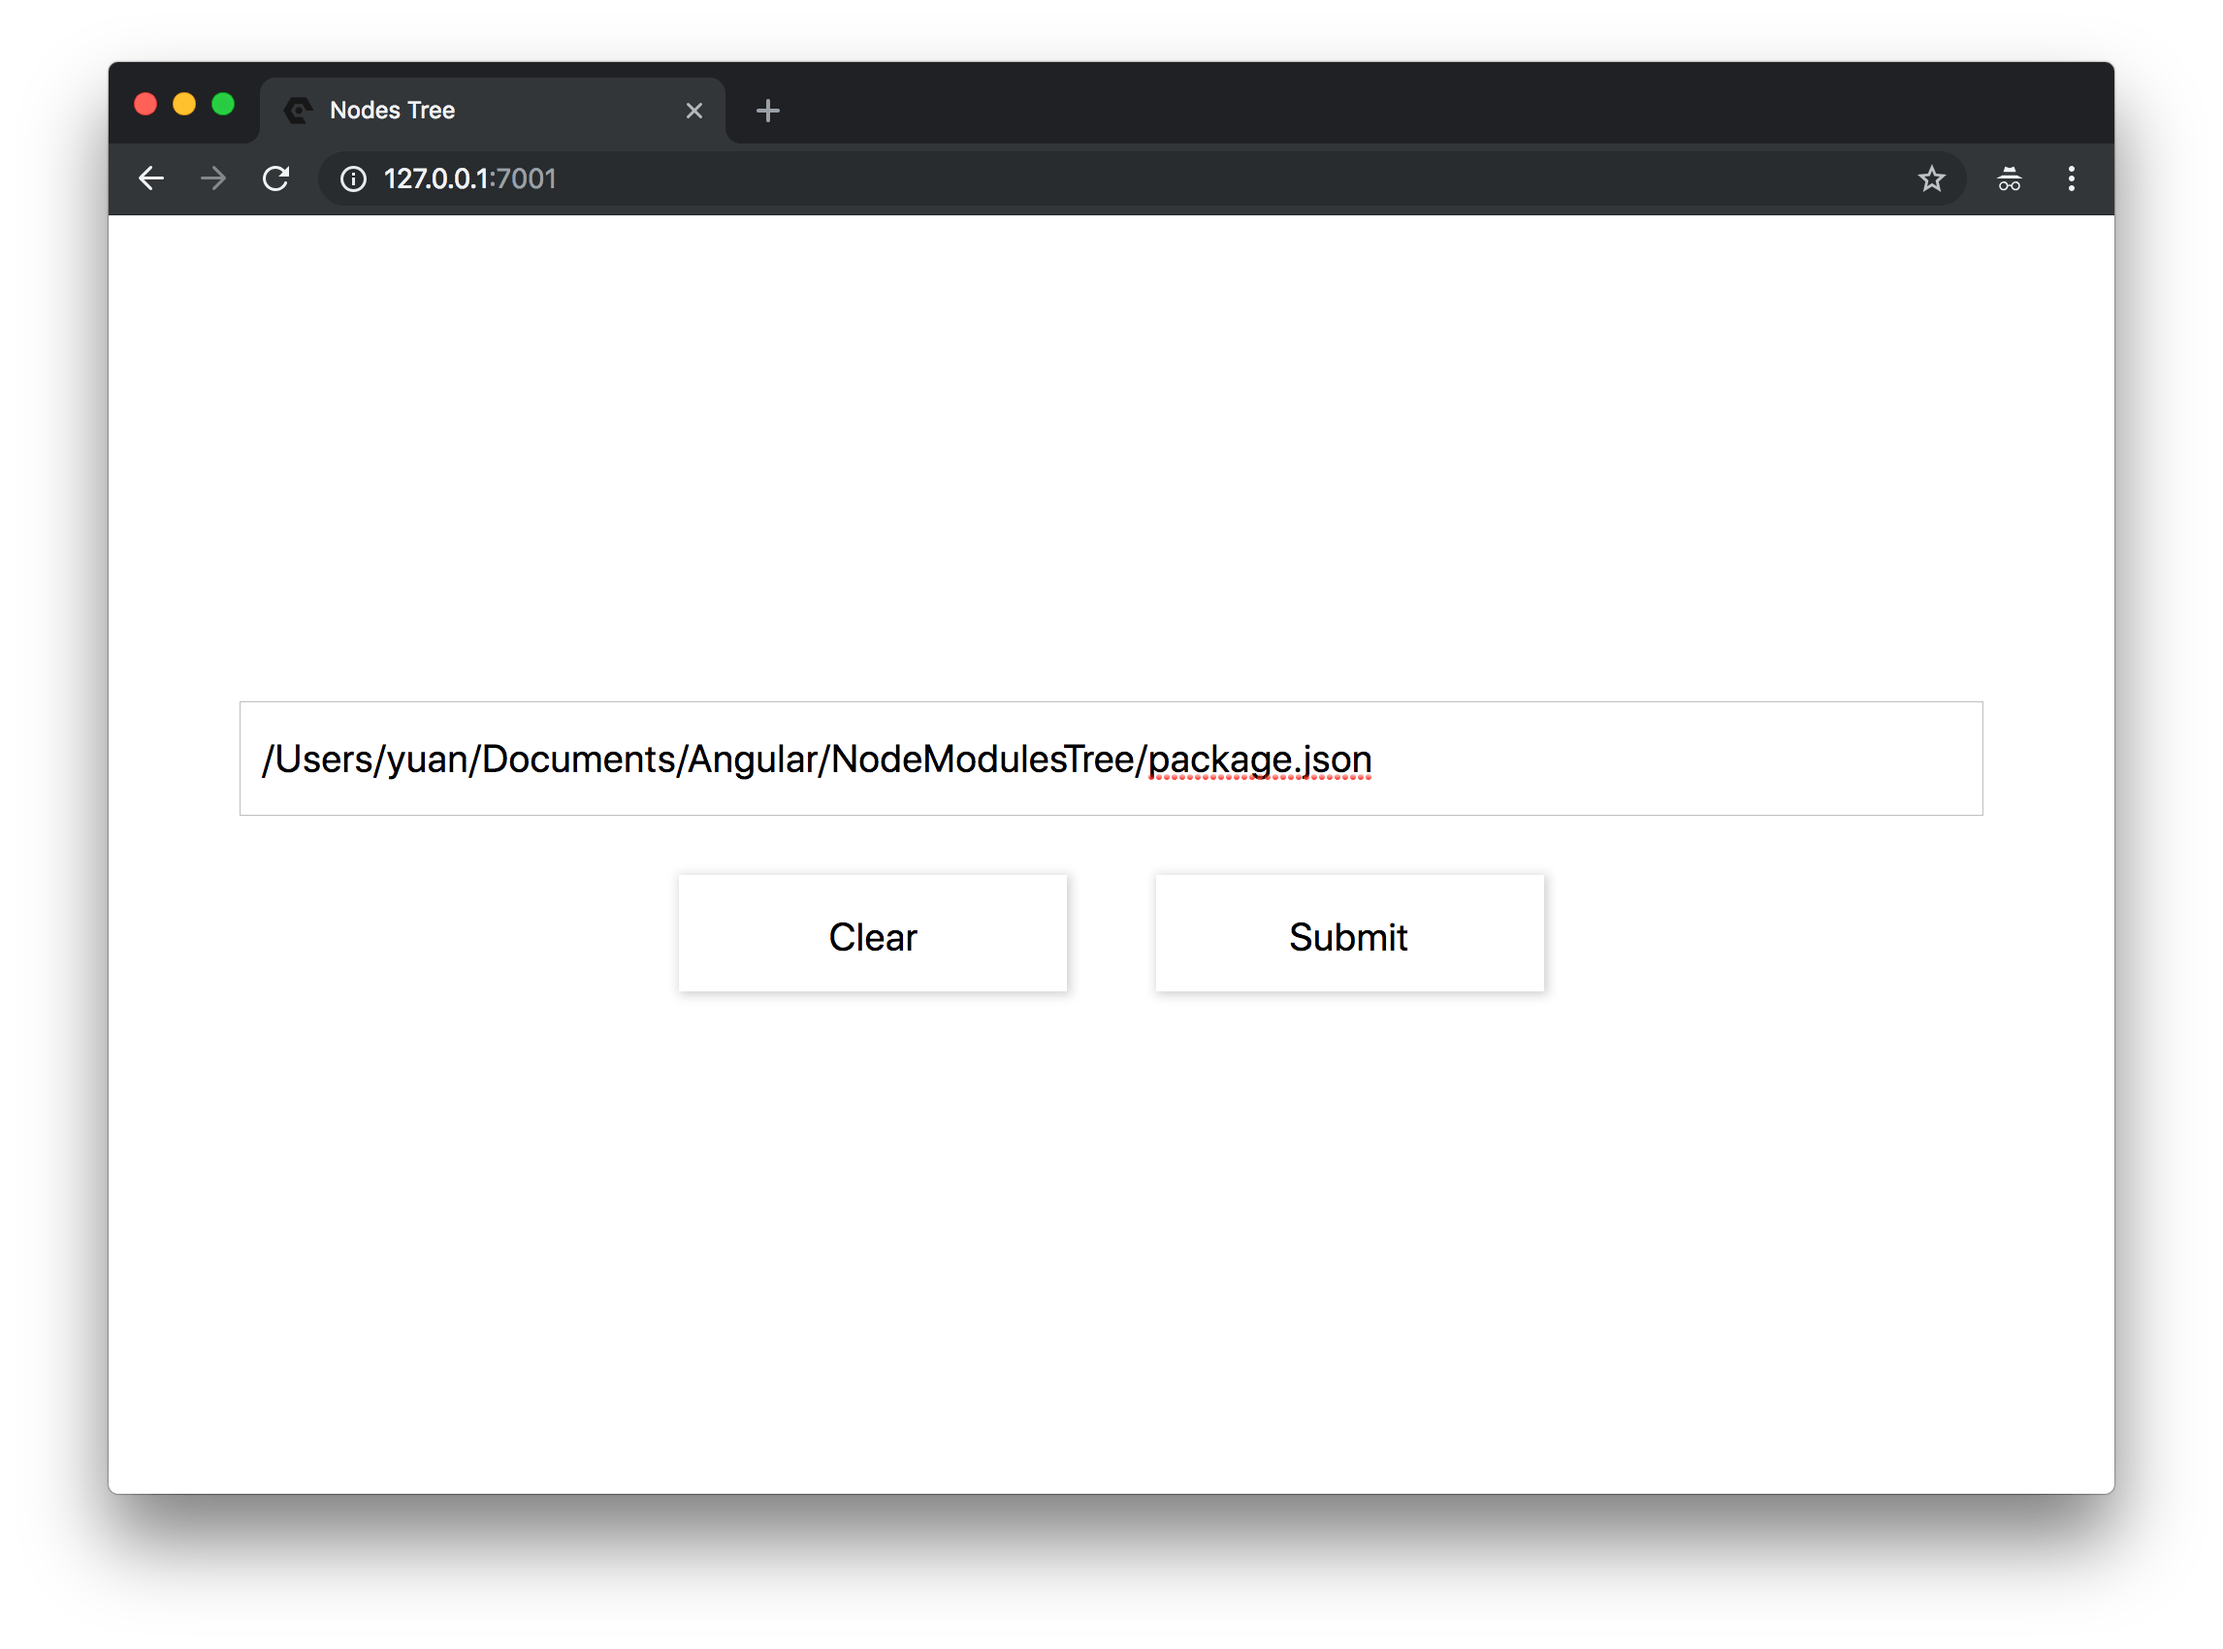
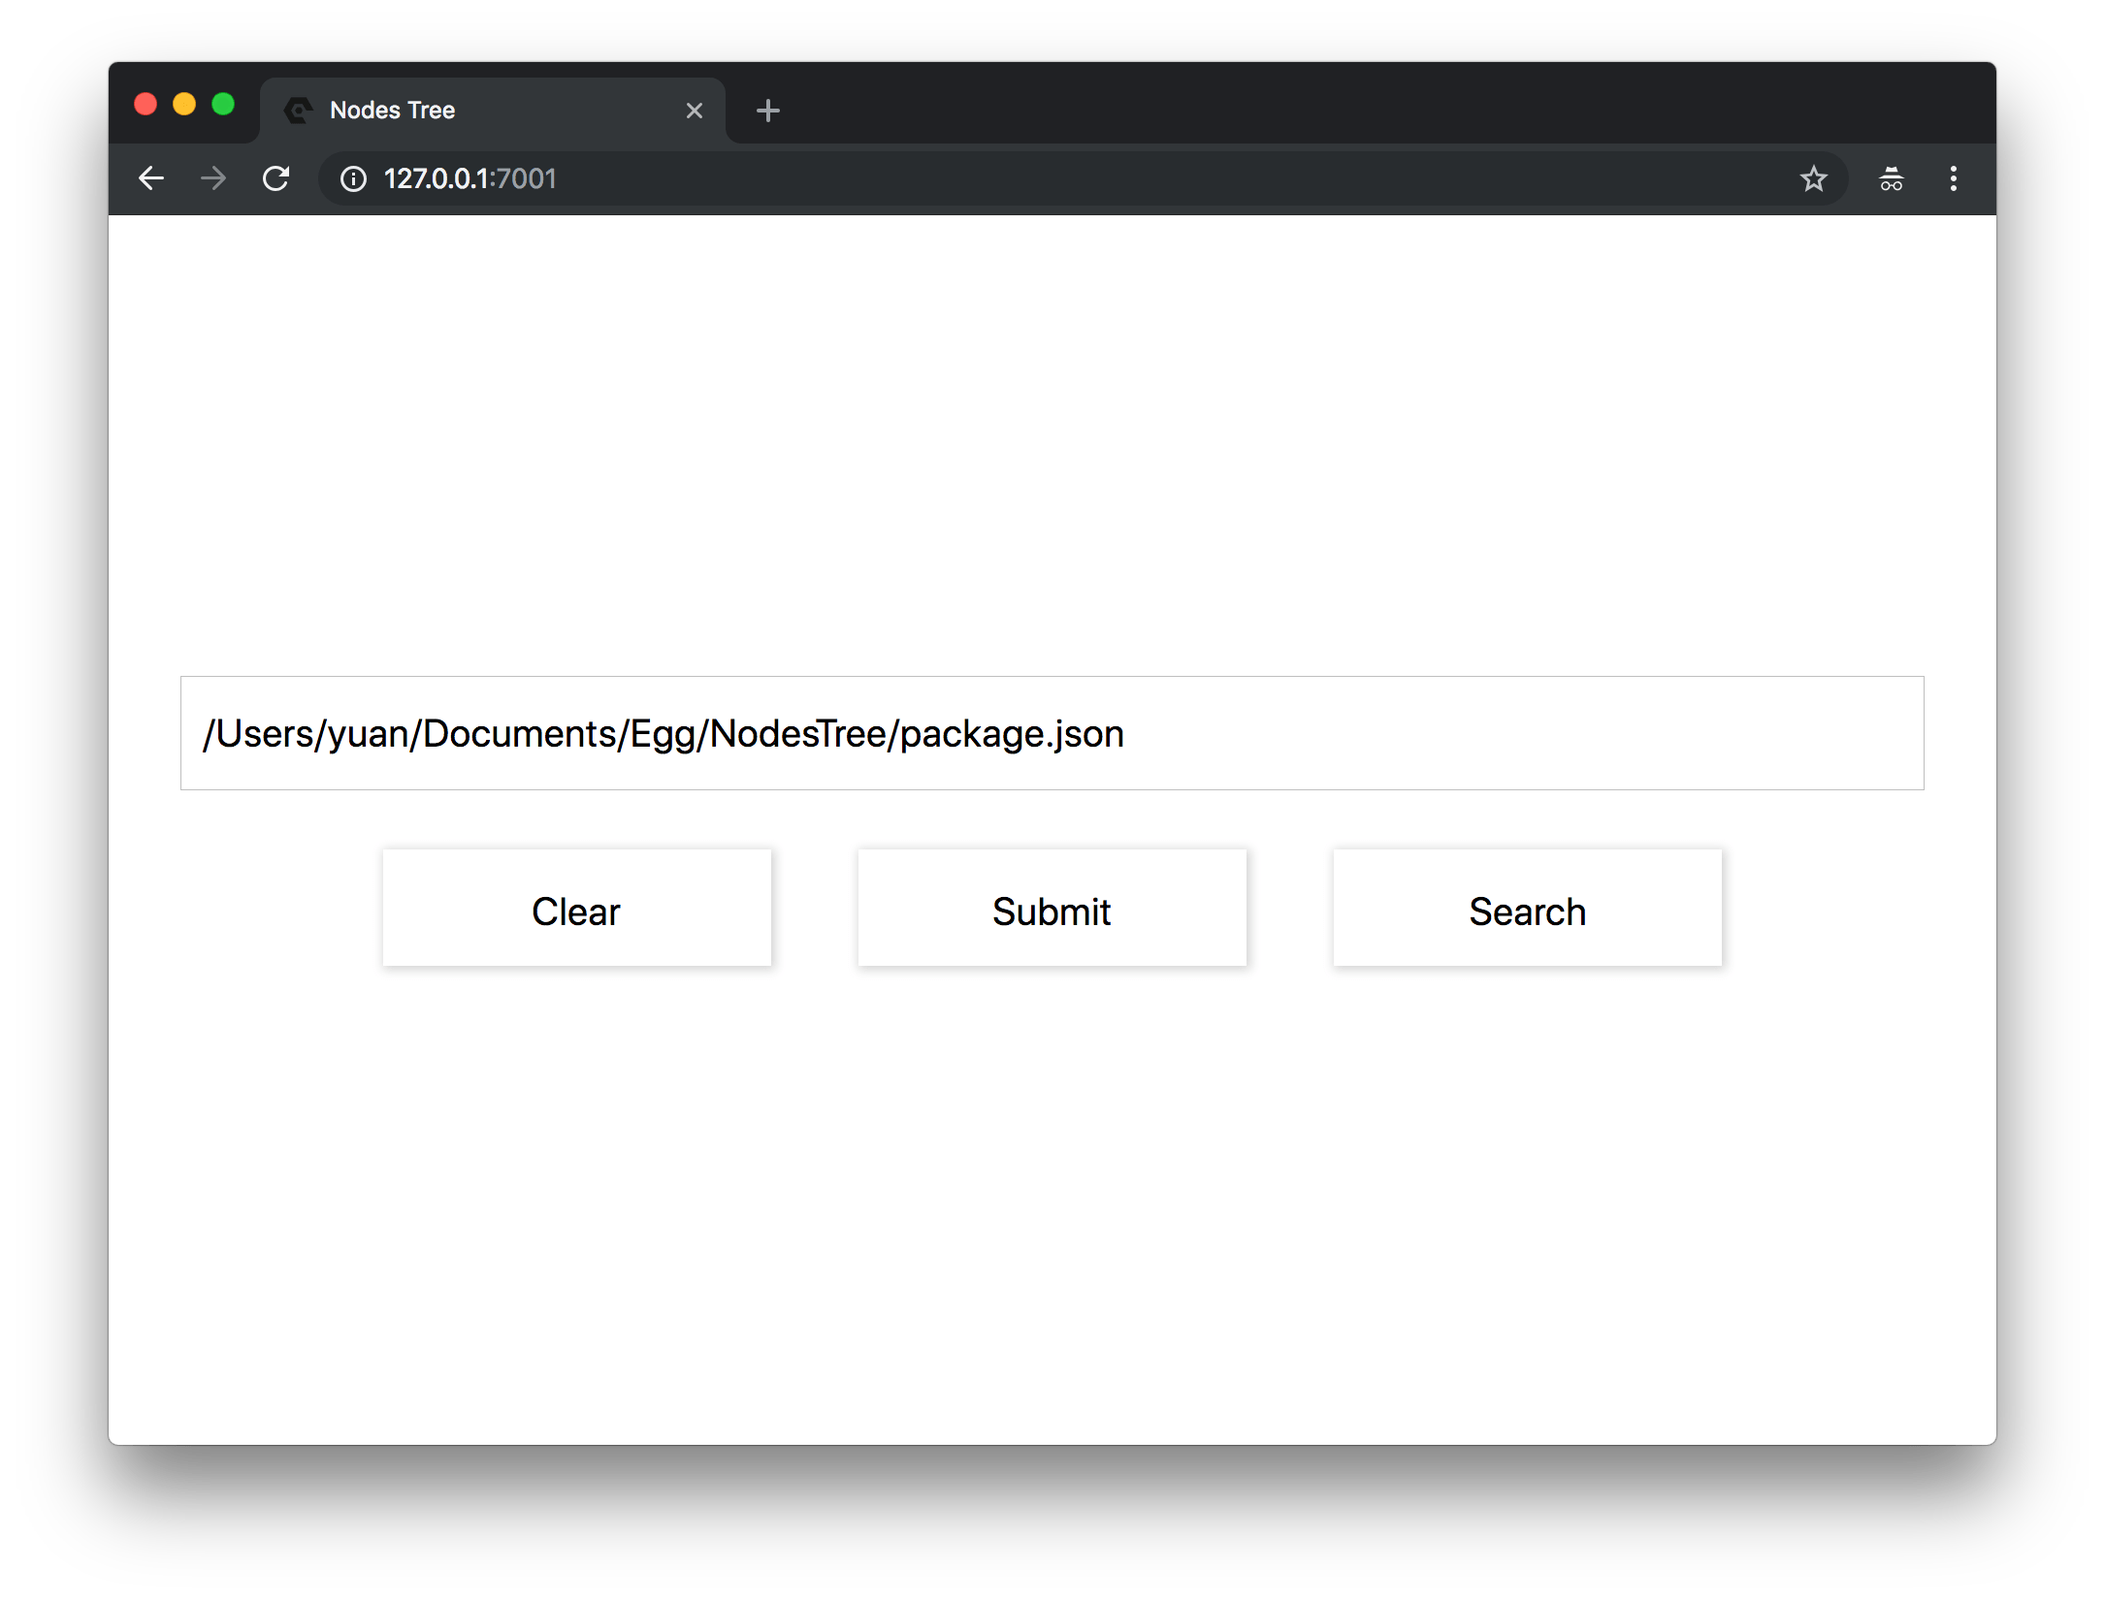
added search function

diff --git a/app/controller/search.js b/app/controller/search.js
@@ -5,7 +5,7 @@ const fs = require('fs');
 const { promisify } = require('util');
 const readFileAsync = promisify(fs.readFile);
 
-class ShowController extends Controller {
+class SearchController extends Controller {
   async index() {
     const { ctx } = this;
     const path = ctx.query.path;
@@ -19,22 +19,19 @@ class ShowController extends Controller {
       return;
     }
     const basePath = path.substr(0, path.length - 12);
+    let searchKey = ctx.query.search;
+    if (searchKey) {
+      searchKey = searchKey.replace(new RegExp(' ', 'g'), '');
+    }
     let pathIndex = 0;
-    // const content = await readFileAsync(path, 'utf-8');
-    // const obj = JSON.parse(content);
-    // obj.modulesDetail = {};
-    // obj.pathIndex = 1;
-    // let pathIndex = 1;
-    // const basePath = path.substr(0, path.length - 12);
-    // obj.packagePath = `/open?path=${decodeURI(basePath)}`;
-    // obj.packageName = obj.name;
-    // let packageName = ctx.query[`path${pathIndex}`];
+    let packageName = searchKey;
+    let requiredHref = `/search?path=${path}&search=`;
     const obj = { modulesDetail: {} };
-    let packageName = 'USER';
     while (packageName) {
+      requiredHref += packageName;
       let pathContent;
-      // const dirPath = `${basePath}node_modules/${packageName}/`;
-      const dirPath = packageName === 'USER' ? `${basePath}/` : `${basePath}node_modules/${packageName}/`;
+      const dirPath = packageName === 'USER' ? `${basePath}` : `${basePath}node_modules/${packageName}/`;
+
       let isSuccess = true;
       try {
         pathContent = await readFileAsync(`${dirPath}package.json`, 'utf-8');
@@ -47,6 +44,7 @@ class ShowController extends Controller {
       obj.modulesDetail[`path${pathIndex}`] = pathObj;
       if (isSuccess) {
         pathObj.packagePath = `/open?path=${decodeURI(dirPath)}`;
+        pathObj.showRequiredBy = true;
       } else {
         let preObj;
         if (pathIndex > 0) {
@@ -59,14 +57,47 @@ class ShowController extends Controller {
           }
         }
       }
+      requiredHref += `&path${pathIndex + 1}=`;
+      if (isSuccess && pathObj._requiredBy) {
+        const requiredBy = [];
+        const href = requiredHref;
+        let isUser = false;
+        pathObj._requiredBy.forEach(value => {
+          let _value = value;
+          if (_value === '/' || _value === '#DEV:/') {
+            _value = 'USER';
+          } else {
+            _value = _value.substring(1);
+          }
+          let canInsert = true;
+          if (_value === 'USER') {
+            if (isUser) {
+              canInsert = false;
+            } else {
+              isUser = true;
+            }
+          }
+          if (canInsert) {
+            requiredBy.push({ name: _value, href: `${href}${encodeURI(_value)}` });
+          }
+        });
+        pathObj._requiredBy = requiredBy;
+      }
+
       if (!this.app.packageCache) {
         this.app.packageCache = {};
       }
       // let packageRedis = await this.app.redis.get(packageName);
       let packageRedis = this.app.packageCache[packageName];
-      if (!(pathObj.private === true) && !packageRedis) {
-        const ret = await ctx.curl(`https://registry.npmjs.org/${packageName}`, { dataType: 'json', timeout: 10000 });
-        if (ret.status === 200) {
+      if (!packageRedis) {
+        let ret;
+        try {
+          ret = await ctx.curl(`https://registry.npmjs.org/${packageName}`, { dataType: 'json', timeout: 10000 });
+        } catch (error) {
+          ctx.body = error;
+          return;
+        }
+        if (ret && ret.status === 200) {
           const data = ret.data;
           const latest = data['dist-tags'].latest;
           const versionDetail = { latest: { version: latest, time: data.time[latest].split('T')[0] } };
@@ -96,8 +127,8 @@ class ShowController extends Controller {
       pathIndex++;
       packageName = ctx.query[`path${pathIndex}`];
     }
-    await ctx.render('show.art', obj);
+    await ctx.render('search.art', obj);
   }
 }
 
-module.exports = ShowController;
+module.exports = SearchController;

diff --git a/app/public/js/show.js b/app/public/js/show.js
@@ -30,12 +30,13 @@ const dependenciesOnClick = event => {
     return;
   }
   const pathIndex = parseInt(idQuery[1]);
-  if (pathIndex < 1) {
-    return;
-  }
   const params = getParamsFromUrl(window.location.search);
   const newParams = { path: params.path };
-  for (let index = 1; index < pathIndex; index++) {
+  if (params.search) {
+    newParams.search = params.search;
+  }
+
+  for (let index = 1; index < pathIndex + 1; index++) {
     const _index = `path${index}`;
     const value = params[_index];
     if (!value) {
@@ -43,9 +44,9 @@ const dependenciesOnClick = event => {
     }
     newParams[_index] = value;
   }
-  newParams[`path${pathIndex}`] = idQuery[2];
+  newParams[`path${pathIndex + 1}`] = idQuery[2];
   const search = `?${combineParamsToUrl(newParams)}`;
-  openLinkElement.href = `${window.location.origin}/show${search}`;
+  openLinkElement.href = `${window.location.origin}${window.location.pathname}${search}`;
   openLinkElement.click();
   window.sessionStorage.setItem(`@@@historyscroll@@@${search}`, `[${document.body.scrollLeft + 200}, ${document.body.scrollTop}]`);
 };
@@ -59,6 +60,7 @@ const dependenciesOnListener = index => {
 };
 const openFileOnListener = index => {
   const dependElement = document.getElementById(`open-file-${index}`);
+
   if (dependElement) {
     dependElement.onclick = event => {
       const id = event.target.id;
@@ -73,34 +75,42 @@ const openFileOnListener = index => {
     };
   }
 };
+const showCard = index => {
+  const cardElement = document.getElementById(`card-${index}`);
+  if (cardElement) {
+    cardElement.style.display = 'block';
+  }
+};
 
-(function() {
-  const params = getParamsFromUrl(window.location.search);
+window.onload = () => {
+  (function() {
+    const params = getParamsFromUrl(window.location.search);
 
-  let pathIndex = 1;
-  let packageName = params[`path${pathIndex}`];
-  dependenciesOnListener(pathIndex);
-  openFileOnListener(pathIndex);
-  while (packageName) {
-    const selectedElement = document.getElementById(`d@@@${pathIndex}@@@${packageName}`);
-
-    selectedElement.style.backgroundColor = '#03a9f41a';
-    selectedElement.style.color = '#1890ff';
-    const pathDetailElement = document.getElementById(`path${pathIndex}`);
-    pathDetailElement.style.marginTop = selectedElement.offsetTop;
-
-    pathIndex++;
-    packageName = params[`path${pathIndex}`];
+    let pathIndex = 0;
+    let packageName = params[`path${pathIndex + 1}`];
     dependenciesOnListener(pathIndex);
     openFileOnListener(pathIndex);
-  }
-  const scrollOff = window.sessionStorage.getItem(`@@@historyscroll@@@${window.location.search}`);
-  const off = JSON.parse(scrollOff);
-  if (off && off.length) {
-    document.body.scrollLeft = off[0];
-    document.body.scrollTop = off[1];
-  }
-})();
+    while (packageName) {
+      showCard(pathIndex + 1);
+      const selectedElement = document.getElementById(`d@@@${pathIndex}@@@${packageName}`);
+      selectedElement.style.backgroundColor = '#03a9f41a';
+      selectedElement.style.color = '#1890ff';
+      const pathDetailElement = document.getElementById(`path${pathIndex + 1}`);
+      dependenciesOnListener(pathIndex + 1);
+      openFileOnListener(pathIndex + 1);
+      pathDetailElement.style.marginTop = selectedElement.offsetTop;
+
+      pathIndex++;
+      packageName = params[`path${pathIndex + 1}`];
+    }
+    const scrollOff = window.sessionStorage.getItem(`@@@historyscroll@@@${window.location.search}`);
+    const off = JSON.parse(scrollOff);
+    if (off && off.length) {
+      document.body.scrollLeft = off[0];
+      document.body.scrollTop = off[1];
+    }
+  })();
+};
 
 
 window.onscroll = () => {

diff --git a/app/public/js/home.js b/app/public/js/home.js
@@ -1,13 +1,31 @@
 'use strict';
 
-const fileElement = document.getElementById('filepath');
+const openLink = path => {
+  newPageElement.href = `${window.location.origin}/${path}?path=${encodeURI(pathInputElement.value)}`;
+  newPageElement.click();
+};
+
+const pathInputElement = document.getElementById('filepath');
 const clearElement = document.getElementById('clear');
 const submitElement = document.getElementById('submit');
+const searchElement = document.getElementById('search');
 const newPageElement = document.getElementById('new-page');
+pathInputElement.value = window.sessionStorage.getItem('history-input');
+pathInputElement.oninput = () => {
+  window.sessionStorage.setItem('history-input', pathInputElement.value);
+};
+pathInputElement.onkeyup = event => {
+  if (event.key === 'Enter') {
+    openLink('show');
+  }
+};
 clearElement.onclick = () => {
-  fileElement.value = '';
+  pathInputElement.value = '';
+  window.sessionStorage.removeItem('history-input');
 };
 submitElement.onclick = () => {
-  newPageElement.href = `${window.location.origin}/show?path=${encodeURI(fileElement.value)}`;
-  newPageElement.click();
+  openLink('show');
+};
+searchElement.onclick = () => {
+  openLink('search');
 };

diff --git a/app/public/css/search.css b/app/public/css/search.css
@@ -1,0 +1,56 @@
+.search {
+    position: fixed;
+    width: 320px;
+    height: 50px;
+    right: 20px;
+    top: 20px;
+    box-shadow: 1px 1px 7px 1px #ccccccd6;
+    border-radius: 4px;
+    padding: 10px;
+    background-color: #fff;
+    z-index: 10;
+}
+.search-input {
+    width: 250px;
+    height: 100%;
+    line-height: 60px;
+    display: inline-block;
+    font-size: 20px;
+    color: #000;
+    background-color: #fff;
+    outline: none;
+    border: 1px sold #ccccccd6;
+    padding: 0 10px 0 10px;
+}
+.button-search {
+    display: inline-block;
+    width: 55px;
+    border: none;
+    font-size: 15px;
+    outline: none;
+    cursor: pointer;
+    text-align: center;
+    background-color: #fff;
+    color: #000;
+}
+.button-search:hover {
+    color: #1890ff;
+}
+.requiredBy {
+    background-color: #ff6b6314;
+    padding: 0 10px;
+    text-align: left;
+    margin-top: 20px;
+}
+.requiredBy-package {
+    border-top:1px dashed #cccccc;
+    cursor: pointer;
+    color: #000;
+    min-height: 33px;
+    line-height: 33px;
+    text-decoration: none;
+    display: block;
+}
+.requiredBy-package:hover {
+    color: #1890ff;
+}

diff --git a/app/public/js/search.js b/app/public/js/search.js
@@ -1,0 +1,27 @@
+'use strict';
+
+const openLink = () => {
+  const params = getParamsFromUrl(window.location.search);
+  if (!params.path) {
+    return;
+  }
+  const searchKey = searchInputElement.value.replace(new RegExp(' ', 'g'), '');
+  openLinkElement.href = `${window.location.origin}/search?path=${params.path}&search=${encodeURI(searchKey)}`;
+  openLinkElement.click();
+};
+
+const searchInputElement = document.getElementById('search-input');
+const searchButtonElement = document.getElementById('button-search');
+
+searchInputElement.value = window.sessionStorage.getItem('history-search-input');
+searchInputElement.oninput = () => {
+  window.sessionStorage.setItem('history-search-input', searchInputElement.value);
+};
+searchButtonElement.onclick = () => {
+  openLink();
+};
+searchInputElement.onkeyup = event => {
+  if (event.key === 'Enter') {
+    openLink();
+  }
+};

diff --git a/app/controller/open.js b/app/controller/open.js
@@ -3,13 +3,14 @@
 const Controller = require('egg').Controller;
 const exec = require('child_process').exec;
 
-class HomeController extends Controller {
+class OpenController extends Controller {
   async index() {
     const { ctx } = this;
     const path = ctx.query.path;
+
     exec(`open ${path}`);
     ctx.body = 'success';
   }
 }
 
-module.exports = HomeController;
+module.exports = OpenController;

diff --git a/app/router.js b/app/router.js
@@ -8,4 +8,5 @@ module.exports = app => {
   router.get('/', controller.home.index);
   router.get('/show', controller.show.index);
   router.get('/open', controller.open.index);
+  router.get('/search', controller.search.index);
 };

diff --git a/app/public/css/show.css b/app/public/css/show.css
@@ -1,7 +1,7 @@
 .container {
     position: relative;
     text-align: center;
-    padding: 20px;
+    padding: 20px 20px 20px 0px;
     display: inline-flex;
 }
 .card {

diff --git a/config/config.default.js b/config/config.default.js
@@ -24,7 +24,7 @@ module.exports = appInfo => {
   };
   */
   config.static = {
-    maxAge: 0,
+    maxAge: 365000,
     gzip: true,
   };
   config.compress = {

diff --git a/app/public/css/global.css b/app/public/css/global.css
@@ -1,0 +1,3 @@
+body {
+    margin: 0;
+}

diff --git a/README.md b/README.md
@@ -5,8 +5,9 @@ Only supported `Chrome Browser`.
 * [Art Template](https://aui.github.io/art-template/docs/index.html)
 
 ## Screenshot
-<img src="README_Images/home.png" style="max-height: 400px;">
-<img src="README_Images/show.png" style="max-height: 400px;">
+<img src="README_Images/home.png" style="max-height: 300px;">
+<img src="README_Images/show.png" style="max-height: 300px;">
+<img src="README_Images/search.png" style="max-height: 300px;">
 
 ## QuickStart
 
